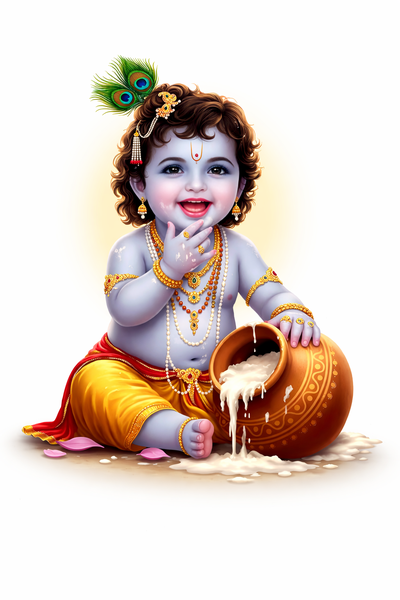
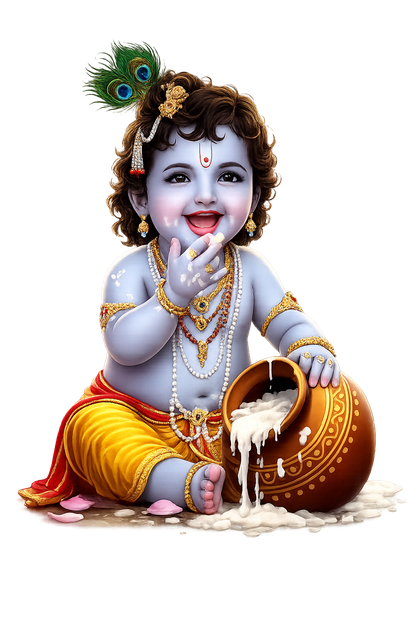
🕉 New transparent Krishna image + scroll audio fix
IMAGE (Architect sizing):
- New RGBA transparent PNG (278KB, background removed)
- Mobile ≤360px: 170px | ≤480px: 200px | ≤768px: 240px | desktop: 280px
- Renders clean over galaxy (no mix-blend-mode needed)
- Golden drop-shadow + divine halo glow behind image
- Gentle 4s float animation, 10px travel
- Halo breathes in sync with float

SCROLL AUDIO FIX:
- scroll/wheel/touchmove: passive:true + once:true
  (browsers enforce passive on scroll — non-passive was being ignored)
- touchstart/touchend/click: still non-passive for gesture context
- All 5 triggers now correctly registered

diff --git a/css/coder-polish.css b/css/coder-polish.css
@@ -714,85 +714,98 @@ html {
 
 /* ══════════════════════════════════════════════
    HERO BABY KRISHNA IMAGE
+   Architect sizing: mobile 200px / tablet 240px / desktop 280px
+   Transparent PNG — renders clean over galaxy background
 ══════════════════════════════════════════════ */
 .hero-krishna-img-wrap {
   position: relative;
   display: flex;
   justify-content: center;
-  margin-bottom: 0.5rem;
+  align-items: flex-end;
+  margin-bottom: -10px; /* pull slightly closer to tagline */
+  flex-shrink: 0;
 }
 
+/* Clean transparent image — no blend mode needed */
 .hero-krishna-img {
-  width: clamp(160px, 38vw, 280px);
+  width: 280px;
   height: auto;
   display: block;
   filter:
-    drop-shadow(0 0 30px rgba(255, 215, 0, 0.55))
-    drop-shadow(0 0 60px rgba(255, 180, 0, 0.3));
-  animation: krishna-float 4s ease-in-out infinite;
+    drop-shadow(0 8px 24px rgba(0,0,0,0.45))
+    drop-shadow(0 0 40px rgba(255,215,0,0.5))
+    drop-shadow(0 0 80px rgba(255,180,0,0.25));
+  animation: krishna-hero-float 4s ease-in-out infinite;
   transform-origin: center bottom;
-  /* White background blends with dark hero */
-  mix-blend-mode: normal;
-  border-radius: 0;
+  position: relative;
+  z-index: 2;
 }
 
-/* Remove white background using luminosity blend */
-@supports (mix-blend-mode: multiply) {
-  .hero-section-dark .hero-krishna-img,
-  .hero .hero-krishna-img {
-    mix-blend-mode: luminosity;
-  }
-}
-
-/* Gentle float + subtle glow pulse */
-@keyframes krishna-float {
+/* Gentle float — 10px travel */
+@keyframes krishna-hero-float {
   0%,100% {
-    transform: translateY(0px) scale(1);
+    transform: translateY(0px);
     filter:
-      drop-shadow(0 0 25px rgba(255,215,0,0.5))
-      drop-shadow(0 0 50px rgba(255,180,0,0.25));
+      drop-shadow(0 8px 24px rgba(0,0,0,0.45))
+      drop-shadow(0 0 35px rgba(255,215,0,0.45))
+      drop-shadow(0 0 70px rgba(255,180,0,0.2));
   }
   50% {
-    transform: translateY(-12px) scale(1.02);
+    transform: translateY(-10px);
     filter:
-      drop-shadow(0 0 40px rgba(255,215,0,0.75))
-      drop-shadow(0 0 80px rgba(255,180,0,0.4))
-      drop-shadow(0 20px 30px rgba(0,0,0,0.3));
+      drop-shadow(0 18px 35px rgba(0,0,0,0.35))
+      drop-shadow(0 0 55px rgba(255,215,0,0.7))
+      drop-shadow(0 0 100px rgba(255,180,0,0.35));
   }
 }
 
-/* Halo glow ring behind image */
+/* Divine halo glow behind krishna */
 .hero-krishna-img-wrap::before {
   content: '';
   position: absolute;
-  top: 50%; left: 50%;
-  transform: translate(-50%, -50%);
-  width: clamp(180px, 42vw, 300px);
-  height: clamp(180px, 42vw, 300px);
+  bottom: 0;
+  left: 50%;
+  transform: translateX(-50%);
+  width: 320px;
+  height: 320px;
   border-radius: 50%;
   background: radial-gradient(
-    circle,
-    rgba(255,215,0,0.18) 0%,
-    rgba(255,165,0,0.08) 50%,
+    circle at 50% 60%,
+    rgba(255,215,0,0.22) 0%,
+    rgba(255,165,0,0.1) 40%,
     transparent 70%
   );
   animation: halo-breathe 4s ease-in-out infinite;
   pointer-events: none;
+  z-index: 1;
 }
 @keyframes halo-breathe {
-  0%,100% { transform: translate(-50%,-50%) scale(1);   opacity: 0.7; }
-  50%      { transform: translate(-50%,-50%) scale(1.15); opacity: 1; }
+  0%,100% { opacity: 0.7; transform: translateX(-50%) scale(1); }
+  50%      { opacity: 1;   transform: translateX(-50%) scale(1.12); }
 }
 
-/* Mobile — slightly smaller */
+/* Tablet */
+@media (max-width: 768px) {
+  .hero-krishna-img { width: 240px; }
+  .hero-krishna-img-wrap::before { width: 270px; height: 270px; }
+}
+
+/* Mobile */
 @media (max-width: 480px) {
-  .hero-krishna-img {
-    width: clamp(130px, 45vw, 200px);
-  }
+  .hero-krishna-img { width: 200px; }
+  .hero-krishna-img-wrap::before { width: 230px; height: 230px; }
+  .hero-krishna-img-wrap { margin-bottom: -6px; }
+}
+
+/* Very small */
+@media (max-width: 360px) {
+  .hero-krishna-img { width: 170px; }
 }
 
 /* Reduced motion */
 @media (prefers-reduced-motion: reduce) {
   .hero-krishna-img { animation: none; }
+  .hero-krishna-img-wrap::before { animation: none; }
+}e; }
   .hero-krishna-img-wrap::before { animation: none; }
 }

diff --git a/index.html b/index.html
@@ -988,19 +988,35 @@
 
     // Register on document SYNCHRONOUSLY before defer scripts load
     // false = bubble phase, not passive — iOS gesture preserved
+    // Touch gestures — non-passive for gesture context
     document.addEventListener('touchstart', _unlockAudio, false);
     document.addEventListener('touchend',   _unlockAudio, false);
     document.addEventListener('click',      _unlockAudio, false);
-    document.addEventListener('scroll',     _unlockAudio, false);
-    document.addEventListener('touchmove',  _unlockAudio, false);
+
+    // Scroll triggers — passive:true (browsers enforce this for scroll)
+    // Use a wrapper that still calls play() in the same tick
+    function _onScroll() { _unlockAudio(); }
+    window.addEventListener('scroll',    _onScroll, { passive: true, once: true });
+    document.addEventListener('wheel',   _onScroll, { passive: true, once: true });
+
+    // Mobile scroll = touchmove — passive to avoid jank
+    document.addEventListener('touchmove', _onScroll, { passive: true, once: true });
 
     // Register on document SYNCHRONOUSLY — before any defer script loads
     // old-style false = not passive, bubbling — iOS gesture preserved
+    // Touch gestures — non-passive for gesture context
     document.addEventListener('touchstart', _unlockAudio, false);
     document.addEventListener('touchend',   _unlockAudio, false);
     document.addEventListener('click',      _unlockAudio, false);
-    document.addEventListener('scroll',     _unlockAudio, false);
-    document.addEventListener('touchmove',  _unlockAudio, false);
+
+    // Scroll triggers — passive:true (browsers enforce this for scroll)
+    // Use a wrapper that still calls play() in the same tick
+    function _onScroll() { _unlockAudio(); }
+    window.addEventListener('scroll',    _onScroll, { passive: true, once: true });
+    document.addEventListener('wheel',   _onScroll, { passive: true, once: true });
+
+    // Mobile scroll = touchmove — passive to avoid jank
+    document.addEventListener('touchmove', _onScroll, { passive: true, once: true });
 
     // Expose for galaxy.js to sync state
     window._unlockAudio  = _unlockAudio;
